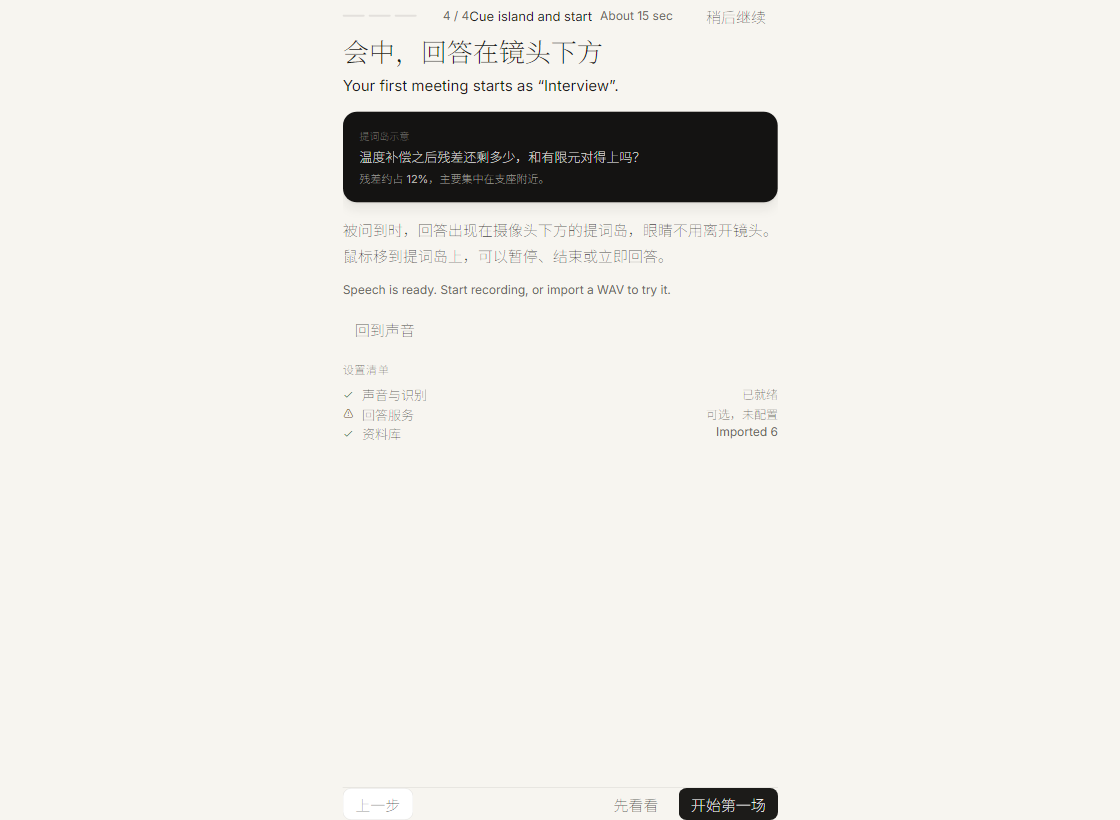
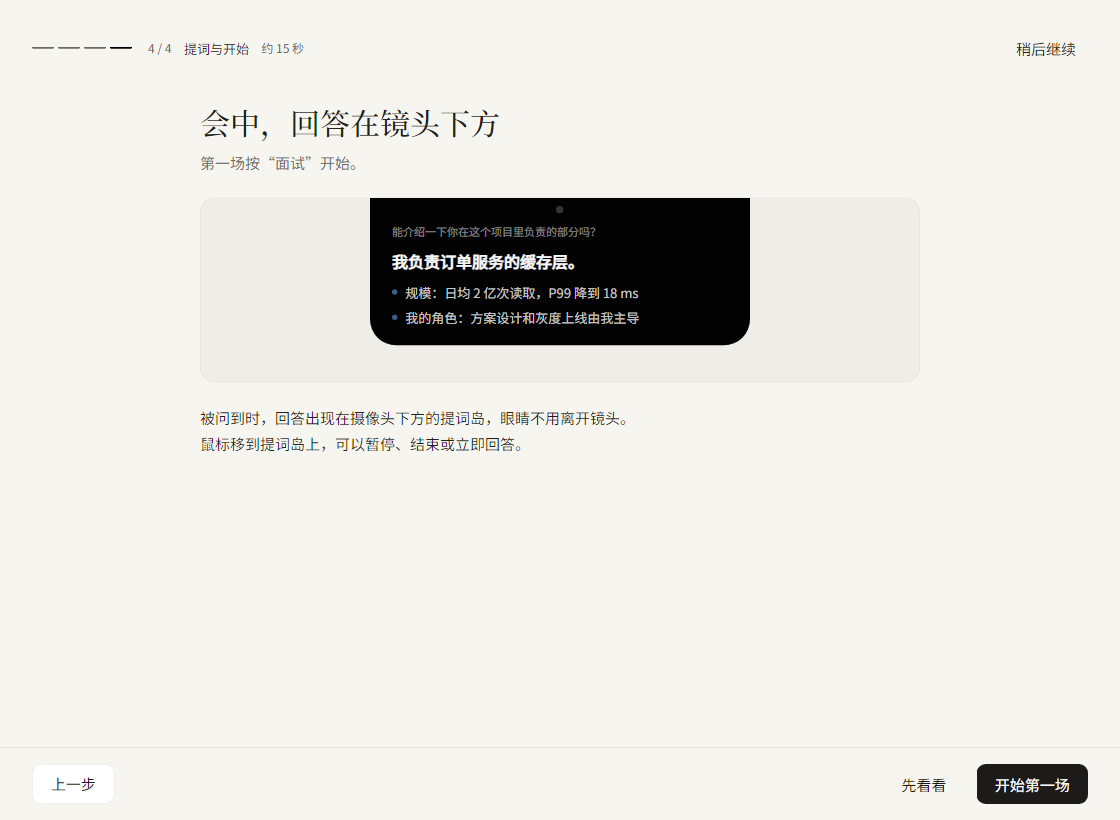
E2/E3: refresh the prepare/onboarding click-through logs for §6.7 (§6.7)
The walk-through tables now describe the reworked page and the four guide steps: the
这场用什么 switches (per-series, applied at start), the carry/briefing/materials/check
blocks, the sample disclosure, the guide's sound/answer/start pages, and the named
self-tests that cover them. Also refreshes the two convenience onboarding captures.

diff --git a/Windows/validation/screens/prepare/click-through.md b/Windows/validation/screens/prepare/click-through.md
@@ -1,19 +1,25 @@
-# E2 · 会前准备页点按记录（第四轮 task-33 增补）
+# E2 · 会前准备页点按记录（§6.7 重做版）
 
-环境：`--demo`。截图：`prepare-{light,dark,en-light,en-dark}.png`。
+环境：`--demo --screenshots`（隔离数据目录）。截图：`prepare-{light,dark,en-light,en-dark}.png`。
+Mac 参照：`PrepareView.swift` 3.4.0；逐元素对照见同目录 `compare.md`。
 
 | 位置 | 操作 | 预期 | 观测/代码路径 |
 |---|---|---|---|
-| 「讨论准备 · AI 可选」 | 点击「整理讨论重点」 | 未配置服务时显示「还没有配置回答服务；整理讨论重点需要它，记录和转写不需要。」，按钮为「设置 AI 服务（可选）」→ 设置页 | `PrepareInsightActionHint` / `PrepareInsightAction` |
-| 同上（已配置 AI） | 点击「整理讨论重点」 | 进入 running（「正在读资料…」），流式回填重点；完成后显示结果；失败显示原因并可重试 | `ReadMaterialsInsightAsync`（`PreparationPrompt` + `CurrentClient().AnswerAsync`） |
-| 同上（无资料） | 点击 | 显示「还没有可用的资料：先导入资料，再整理讨论重点。」 | `DraftMaterialText` 为空 → failed |
-| 「取消生成」 | running 时点击 | 取消请求，状态回 idle，提示「已取消生成。」 | `CancelMaterialsInsightCommand` |
-| 采音行电平条 | 查看 | 「对方 · 系统声音」「我 · 麦克风」两条；未录音/未测试时为 0 | `SystemAudioLevelPercent`/`MicrophoneAudioLevelPercent` ← `UpdateAudioLevels` |
-| 「声音测试」 | 点击 | 打开声音录入窗口（现有 OnboardingVoiceWindow），录完电平刷新 | `PrepareView.axaml.cs` `VoiceTest_Click` |
-| 「去准备」 | 未就绪时点击 | 打开设置准备语音组件 | Navigate Settings |
-| 线上/线下 | 切换 | 提示行变化（线上听电脑声音/线下仅麦克风）；设置保存；麦克风行状态联动；开始录音的 InPerson 跟着变 | `DraftVenueHint` + `SetVenueAsync` |
-| 「检查回答服务」 | 未配置时点击 | 明确提示「还没有配置回答服务：到 设置 → 回答 填写 API Key 后再检查。」，记录仍可继续 | `TestAnswerEngineAsync` 未配置分支 + `PrepareEngineStateLabel` |
-| 同上（已配置） | 点击 | 「正在检查…」按钮禁用 → 「连接检查通过 · 用时 X 秒」或失败原因；再点变「重新检查」 | `EngineTestState` idle/running/passed/failed |
-| 取消 / 开始记录 | 点击 | 取消清 draft 回首页；开始走 `StartPreparedMeetingCommand` → `BeginPreparedMeeting` | 自测 `--demo --self-test prepare` 断言 |
+| 标题输入 | 输入标题 | 未手动选类型时按标题猜场景（chips/承诺/说明联动）；「根据标题选好了，可以改」在猜中时显示 | `DraftTitle` → `DraftGuessNoteVisible`；`MeetingTypeGuesser` |
+| 这是什么会 | 点场景 chip（如「组会」） | 场景色选中底/字移动；图标、承诺、三条说明、类型说明即时换；猜类型提示消失 | `DraftSceneChips` / `SetDraftType` / `RaisePrepareDraft` |
+| 「+ 自定义…」 | 点击 | 出现「类型名称」输入 +「基于」场景选择；确认后承诺/说明按基础场景显示 | `DraftIsCustom` / `CustomBaseBox`（`applyingDraft` 防重入） |
+| 线上/线下 | 切换 | 线上=系统声音+麦克风；线下=只用麦克风并标「现场」；设置保存 | `OnlineVenue_Click` / `OfflineVenue_Click` → `SetVenueAsync` |
+| 这场用什么 · 自动回答 | 开/关 | 开关即时生效并写 `meeting-features.json` 的 `meetingFeatures.<seriesID>`；与场景默认不同时右上出现「恢复这个场景的默认」 | `MeetingFeatureAnswers` → `DraftMeetingFeatures`（Core `MeetingFeatureChoices`） |
+| 这场用什么 · 实时纪要/同声传译/区分说话人 | 开/关 | 同上；无回答引擎时自动回答/实时纪要行禁用并换成「需要先连接回答服务…」；声纹模型未安装时区分说话人禁用 | `MeetingFeature*Enabled` / `*Detail` |
+| 恢复这个场景的默认 | 点击 | 四个开关回场景默认（自动回答=场景是否主动回答、实时纪要=反向、同声传译=开、区分说话人=可用且开），按钮消失 | `ResetMeetingFeaturesCommand`（删 sidecar 键） |
+| 接着上一场 | 查看 | 系列色点 +「这是「系列」的第 N 场」+「上一场：…」；系列简报（最近会议/经验/答法/待确认）；携带行 WideToggleRow | `DraftSeriesHeaderTitle` / `DraftBriefing*` / `Carry*` |
+| 「不是同一个系列」 | 点击 | 解绑系列、清空携带选择，区块收起 | `DeclineDraftSeriesCommand` |
+| 从以前的会议带入… | 打开菜单选系列 | 绑定该系列并带入资料/题库/经验基线 | `OtherSeriesRows` / `ContinueDraftSeries` |
+| 这次新加的资料 | 拖入文件 / 点「添加」 | 文件行出现（名称/段数/警告），资料洞察块可用；文件解析状态由现有 E2 流程更新 | `TryGetFilesAsync` / `ImportPreparedDocumentsCommand` / `PrepareMaterialsRows` |
+| 讨论准备 · AI 可选 | 「整理讨论重点」 | 未配置→「设置 AI 服务（可选）」；已配置→running/流式结果/失败重试/取消 | `PrepareInsightActionCommand` / `CancelMaterialsInsightCommand` |
+| 开始前检查 · 声音 | 查看/「声音测试」/「只记录对方」/「重新打开麦克风」 | 状态点、音源、两条电平、问题行；声音测试打开录入窗口 | `PrepareAudioTone` / `VoiceTest_Click` / `ContinueWithoutMicrophoneCommand` |
+| 开始前检查 · AI 可选 | 「检查回答服务」 | 未配置给明确提示；已配置 running→通过/失败原因，记录仍可继续 | `TestAnswerEngineCommand` / `PrepareEngineVerification` |
+| 底部开始条 | 「开始」 | `BeginPreparedMeeting` + `ApplyActiveMeetingFeatures`：四项开关落地，关掉的功能开始后不运行 | `StartPreparedMeetingCommand`；`--demo --self-test prepare` 断言 |
+| 底部开始条 | 「取消」 | 丢弃 draft、回首页 | `CancelDraftCommand` |
 
-自测：`--demo --self-test prepare`、`startup`；截图批（浅/深/英文）由 verify 生成。
+自测：`--demo --self-test prepare`（通过：场景/自定义/线上线下/麦克风/携带/资料/四个功能开关的每系列沿用与开始时生效/清除默认）。

diff --git a/Windows/validation/screens/onboarding/click-through.md b/Windows/validation/screens/onboarding/click-through.md
@@ -1,15 +1,24 @@
-# E3 · 首次引导点按记录（第四轮 task-34 增补）
+# E3 · 首次引导点按记录（§6.7 重做版）
 
-环境：`--demo`。
+环境：`--demo --onboarding`（截图批里用 `OnboardingVisible`）。截图：`onboarding-step{0..3}-{light,dark}.png`。
+Mac 参照：`Onboarding.swift` 四步；逐元素对照见同目录 `compare.md`。
 
-| 位置 | 操作 | 预期 | 观测 |
+| 位置 | 操作 | 预期 | 观测/代码路径 |
 |---|---|---|---|
-| 设置 → 通用 | 打开 | 出现「设置清单」卡（语音识别 / 回答引擎 / 当前场景 三行，状态点 + 说明 + 动作） | 卡在通用页，不再在高级页；行来自 `AppState.SetupChecklistRows` |
-| 设置清单行 | 点击「下载/设置/编辑」 | 语音识别未就绪→下载模型；回答引擎→设置；当前场景→资料库 | `SetupChecklistActionCommand` |
-| 场景页「看一段面试示例」 | 点击 | 展开示例面板：进度条启动，转写逐行出现（0.8/5/10.5/16/21/26.5/29.5 秒），笔记逐条出现（8.5~32 秒） | `OnboardingSampleVisibleLines/Takeaways`；34 秒后停止 |
-| 示例面板「面试官在追问 · 参考回答」 | 等 13 秒 | 出现追问块（问题 + 参考回答） | `OnboardingSampleShowSuggestion` |
-| 示例面板进度条 | 播放完 | 出现「重播」按钮 | `OnboardingSampleFinished`；点击从头播放 |
-| 示例面板「收起示例」 | 点击 | 面板收起并停止计时 | `StopSample` |
-| 关闭引导（稍后继续/完成） | 点击 | 回放停止；首页出现/清除 resume 行 | `OnOnboardingVisibleChanged` → `StopSample` |
-| 步骤切换（上一步/下一步/跳过） | 点击 | 页面内容 460ms 淡入，内容不重叠 | `GuideMotion.PhaseIn`（Mac Motion.phase 近似） |
-| 引导步骤 | 核对 | 场景/声音/回答/提词与开始四步文案、位置、预计时间、底部按钮 | `--demo --self-test onboarding` 通过 |
+| header | 查看 | 4 条 22×2 进度胶囊（已完成 secondary/当前 ink/未到 hairline）、「1 / 4」、步骤名、预计时间、「稍后继续」 | `OnboardingProgressCapsules` / `OnboardingPosition` / `OnboardingStepTime` |
+| 「稍后继续」 | 点击 | 关闭引导；首页出现续做入口；回放停止 | `SkipOnboardingCommand` → `DeferOnboarding`；`OnboardingResumeRow` |
+| 第 1 步 场景 chip | 点「组会」等 | 卡片图标/名称/承诺/三条说明即时切换；场景色选中底/字移动 | `SceneChip_Click` → `SetSceneCommand` + `RefreshGuideScene` |
+| 第 1 步 「› 看一段面试示例」 | 点击 | chevron 翻转并展开示例：左侧逐行转写、右侧参考回答（13 秒后）与面试记录、底部进度条；播完出现「重播」 | `OnboardingSampleVisibleLines/Takeaways` / `ReplayOnboardingSampleCommand` |
+| 第 2 步 线上/线下 | 切换 | 线下=只用麦克风（同时把麦克风打开）；线上=系统声音+麦克风 | `OnboardingOnlineVenue_Click` / `OnboardingOfflineVenue_Click` |
+| 第 2 步 麦克风 | 切「记录我的声音 / 只记录对方」 | 只记录对方关闭麦克风采集，说明行/状态点联动；未授权时「允许/打开设置」打开 Windows 麦克风设置 | `OnboardingMicrophoneRecordsMe` / `OnboardingMicrophonePermissionSettingsCommand` |
+| 第 2 步 语音识别 | 「下载」 | 未安装本机模型时下载并显示进度/状态；就绪后该行绿点「已就绪」 | `PrepareModelsCommand` / `OnboardingRecognitionDetail` |
+| 第 2 步 「› 换一种识别方式」 | 点击 | 展开一段识别方式说明（无卡片，Mac DisclosureGroup 样式） | `ToggleRecognitionOptionsCommand` |
+| 第 3 步 服务商 | 点任一服务商 | 打开设置 → 回答，在完整 `AnswerEngineForm` 里选择服务商并填 Key | `Provider_Click` → `NavigateCommand Settings` |
+| 第 3 步 连接状态/模型 | 查看 | 演示数据与 Mac 截图一致：Codex 已登录 (ChatGPT 账号) / Logged in using ChatGPT · codex-cli 0.160.0 / 模型 GPT-5.5；真实连接时显示 API·模型 | `OnboardingAnswerServiceTitle/Detail` / `OnboardingModelLine` |
+| 第 3 步 「› 更多选项」 | 点击 | 展开说明 + 「打开设置」 | `ToggleAnswerOptionsCommand` |
+| 第 3 步 「测试回答」 | 点击 | 走与会中回答相同的连通性请求；未配置时明确提示 | `TestAnswerEngineCommand` |
+| 第 4 步 | 查看 | 提词岛示意（黑块/问题/回答/两条 cue）、两段说明（Windows 用「提词岛」不用「刘海」） | `OnboardingCueIsland*` |
+| 第 4 步 未就绪 | 查看 | 显示 readiness 说明 +「回到声音」跳第 2 步 | `OnboardingReadinessMessage` / `GoToOnboardingStepCommand` |
+| footer | 上一步/下一步/跳过/先看看/开始第一场 | 页面 460ms 淡入切换；「跳过」仅回答步且未配置时出现；「开始第一场」完成引导并以所选场景开始 | `GuideMotion.PhaseIn` / `BeginFirstMeetingCommand`；`--demo --self-test onboarding` |
+
+自测：`--demo --self-test onboarding`（通过：四步步进/前一步/回声/示例开关/线下切换与恢复/跳过关闭）。
